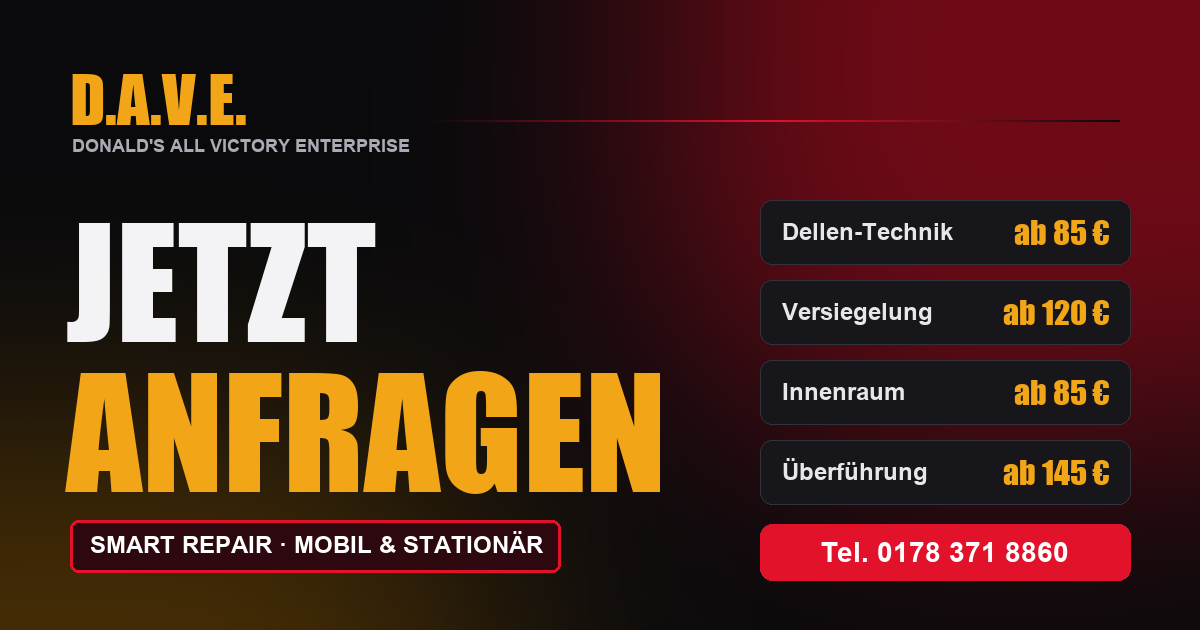
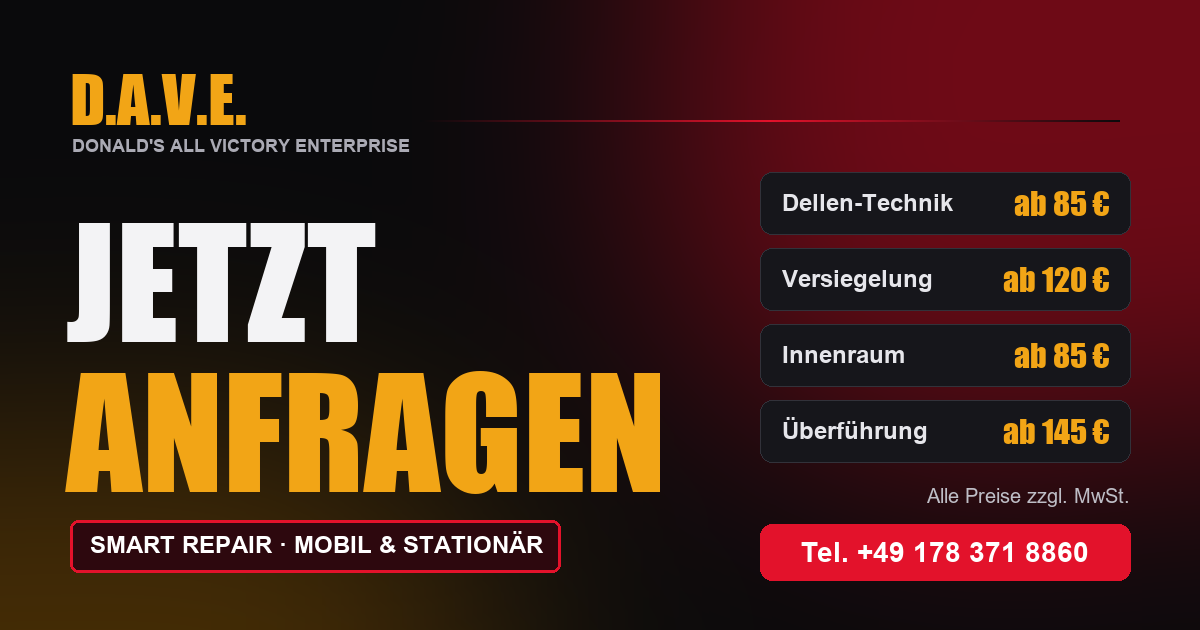
Preise zzgl. MwSt., +49, Impressum- und Datenschutz-Angaben
- Alle Preise mit Zusatz zzgl. MwSt. (Karten, Hero, FAQ, Vorschaubild, Google-Daten)
- Telefonnummer ueberall im internationalen Format +49 178 371 8860
- Adresse Ringstrasse 2a, 74937 Spechbach in Impressum und Datenschutz
- Voller Name Donald Craig Sewell; Inhaber als Verantwortlicher fuer Datenschutz
- Impressum auf USt-IdNr.-Variante gesetzt (Nummer folgt)
- Lichtstreifen im Hero verursachen kein seitliches Scrollen mehr

Changed region(s): [[0.6167, 0.2714, 0.9558, 0.8143], [0.6475, 0.8444, 0.925, 0.9048]]

diff --git a/index.html b/index.html
@@ -4,7 +4,7 @@
 <meta charset="utf-8">
 <meta name="viewport" content="width=device-width, initial-scale=1, viewport-fit=cover">
 <title>D.A.V.E. – Smart Repair, Dellenentfernung &amp; Fahrzeugaufbereitung | Mobil &amp; Stationär</title>
-<meta name="description" content="D.A.V.E. – Smart Repair mobil &amp; stationär: Dellenentfernung (PDR) ab 85 €, Lack- &amp; Glasversiegelung ab 120 €, Innenraumaufbereitung ab 85 €, Fahrzeugüberführung ab 145 €. Wir kommen zu dir! ☎ 0178 371 8860">
+<meta name="description" content="D.A.V.E. – Smart Repair mobil &amp; stationär: Dellenentfernung (PDR) ab 85 €, Lack- &amp; Glasversiegelung ab 120 €, Innenraumaufbereitung ab 85 €, Fahrzeugüberführung ab 145 € (alle Preise zzgl. MwSt.). Wir kommen zu dir! ☎ +49 178 371 8860">
 <meta name="theme-color" content="#0a0a0c">
 <link rel="canonical" href="https://ali1810.github.io/dave/">
 <link rel="icon" href="favicon.svg" type="image/svg+xml">
@@ -32,12 +32,12 @@
   "telephone": "+49 178 3718860",
   "email": "donald.sewell@gmx.de",
   "priceRange": "ab 85 €",
-  "founder": { "@type": "Person", "name": "Donald Sewell" },
+  "founder": { "@type": "Person", "name": "Donald Craig Sewell" },
   "makesOffer": [
-    { "@type": "Offer", "itemOffered": { "@type": "Service", "name": "PDR / Dellen-Technik" }, "priceSpecification": { "@type": "PriceSpecification", "minPrice": 85, "priceCurrency": "EUR" } },
-    { "@type": "Offer", "itemOffered": { "@type": "Service", "name": "Fahrzeugtransport & Überführung" }, "priceSpecification": { "@type": "PriceSpecification", "minPrice": 145, "priceCurrency": "EUR" } },
-    { "@type": "Offer", "itemOffered": { "@type": "Service", "name": "Lack- & Glasversiegelung" }, "priceSpecification": { "@type": "PriceSpecification", "minPrice": 120, "priceCurrency": "EUR" } },
-    { "@type": "Offer", "itemOffered": { "@type": "Service", "name": "Innenraumpflege & Aufbereitung" }, "priceSpecification": { "@type": "PriceSpecification", "minPrice": 85, "priceCurrency": "EUR" } }
+    { "@type": "Offer", "itemOffered": { "@type": "Service", "name": "PDR / Dellen-Technik" }, "priceSpecification": { "@type": "PriceSpecification", "minPrice": 85, "priceCurrency": "EUR", "valueAddedTaxIncluded": false } },
+    { "@type": "Offer", "itemOffered": { "@type": "Service", "name": "Fahrzeugtransport & Überführung" }, "priceSpecification": { "@type": "PriceSpecification", "minPrice": 145, "priceCurrency": "EUR", "valueAddedTaxIncluded": false } },
+    { "@type": "Offer", "itemOffered": { "@type": "Service", "name": "Lack- & Glasversiegelung" }, "priceSpecification": { "@type": "PriceSpecification", "minPrice": 120, "priceCurrency": "EUR", "valueAddedTaxIncluded": false } },
+    { "@type": "Offer", "itemOffered": { "@type": "Service", "name": "Innenraumpflege & Aufbereitung" }, "priceSpecification": { "@type": "PriceSpecification", "minPrice": 85, "priceCurrency": "EUR", "valueAddedTaxIncluded": false } }
   ]
 }
 </script>
@@ -114,7 +114,9 @@
   .hero::after{content:"";position:absolute;inset:0;z-index:-2;opacity:.25;
     background-image:linear-gradient(#ffffff08 1px,transparent 1px),linear-gradient(90deg,#ffffff08 1px,transparent 1px);background-size:60px 60px;
     -webkit-mask-image:radial-gradient(ellipse at 60% 50%,#000 20%,transparent 70%);mask-image:radial-gradient(ellipse at 60% 50%,#000 20%,transparent 70%)}
-  .streaks{position:absolute;inset:0;z-index:-1;pointer-events:none}
+  .streaks{position:absolute;inset:0;z-index:-1;pointer-events:none;overflow:hidden}
+  html,body{overflow-x:hidden}
+  @supports (overflow:clip){html,body{overflow-x:clip}}
   .streaks span{position:absolute;left:0;height:2px;border-radius:2px;background:linear-gradient(90deg,transparent,var(--red2),transparent);animation:streak 4s linear infinite;will-change:transform}
   @keyframes streak{from{transform:translateX(-60vw)}to{transform:translateX(120vw)}}
   .hero-grid{display:grid;grid-template-columns:1.1fr .9fr;gap:40px;align-items:center;width:100%}
@@ -175,6 +177,8 @@
   .price{display:inline-flex;align-items:baseline;gap:8px;background:linear-gradient(180deg,#b10e22,#7e0817);border:1px solid var(--red2);padding:8px 16px;border-radius:9px;font-weight:800;text-transform:uppercase;font-style:italic}
   .price small{font-size:12px;letter-spacing:.06em}
   .price b{font-size:24px}
+  .price .vat{font-size:11px;font-style:normal;text-transform:none;letter-spacing:.02em;font-weight:600;opacity:.85}
+  .vat-note{text-align:center;color:var(--muted);font-size:14px;margin-top:28px}
   .ask{font-weight:700;font-size:14px;color:var(--gold);display:inline-flex;align-items:center;gap:6px;background:none;border:0;cursor:pointer;font-family:inherit;padding:6px 0}
   .ask svg{transition:transform .2s}.ask:hover svg{transform:translateX(4px)}
   @media (max-width:960px){.services{grid-template-columns:1fr}}
@@ -314,7 +318,7 @@
     </nav>
     <a href="tel:+491783718860" class="btn btn-red nav-cta">
       <svg class="i" viewBox="0 0 24 24" fill="none" stroke="currentColor" stroke-width="2"><path d="M22 16.9v3a2 2 0 0 1-2.2 2 19.8 19.8 0 0 1-8.6-3.1 19.5 19.5 0 0 1-6-6A19.8 19.8 0 0 1 2.1 4.2 2 2 0 0 1 4.1 2h3a2 2 0 0 1 2 1.7c.1.9.4 1.8.7 2.7a2 2 0 0 1-.5 2.1L8 9.8a16 16 0 0 0 6 6l1.3-1.3a2 2 0 0 1 2.1-.4c.9.3 1.8.6 2.7.7a2 2 0 0 1 1.7 2z"/></svg>
-      0178 371 8860
+      +49 178 371 8860
     </a>
     <button class="burger" id="burger" aria-label="Menü öffnen" aria-expanded="false" aria-controls="menu"><span></span></button>
   </div>
@@ -377,7 +381,7 @@
             <circle cx="400" cy="202" r="6" fill="#f2a516"/>
           </g>
         </svg>
-        <div class="chip c1"><b>ab 85 €</b>Dellen-Technik</div>
+        <div class="chip c1"><b>ab 85 €</b>Dellen-Technik · zzgl. MwSt.</div>
         <div class="chip c2"><b>📍 Wir kommen zu dir</b>Mobil oder stationär</div>
       </div>
     </div>
@@ -411,7 +415,7 @@
             <p class="d">Ausbeulen ohne Lackieren – der Originallack bleibt erhalten. Ideal bei Parkdellen und Hagelschäden.</p>
             <ul><li>Kleine Dellen</li><li>Mittlere Dellen</li><li>Große Dellen</li></ul>
             <div class="foot">
-              <span class="price"><small>Preise ab</small><b>85 €</b></span>
+              <span class="price"><small>Preise ab</small><b>85 €</b><em class="vat">zzgl. MwSt.</em></span>
               <button class="ask" data-svc="PDR / Dellen-Technik">Anfragen <svg class="i" viewBox="0 0 24 24" fill="none" stroke="currentColor" stroke-width="2.5"><path d="M5 12h14M13 6l6 6-6 6"/></svg></button>
             </div>
           </div>
@@ -425,7 +429,7 @@
             <p class="d">Sicher von A nach B – zur Werkstatt, zum TÜV, zum Käufer oder quer durch Deutschland.</p>
             <ul><li>Kurzstrecke</li><li>Mittlere Strecke</li><li>Langstrecke</li></ul>
             <div class="foot">
-              <span class="price"><small>Preise ab</small><b>145 €</b></span>
+              <span class="price"><small>Preise ab</small><b>145 €</b><em class="vat">zzgl. MwSt.</em></span>
               <button class="ask" data-svc="Fahrzeugtransport &amp; Überführung">Anfragen <svg class="i" viewBox="0 0 24 24" fill="none" stroke="currentColor" stroke-width="2.5"><path d="M5 12h14M13 6l6 6-6 6"/></svg></button>
             </div>
           </div>
@@ -439,7 +443,7 @@
             <p class="d">Tiefenglanz und langanhaltender Schutz vor Schmutz, Salz und UV – vom Basis-Paket bis Keramik.</p>
             <ul><li>Basis</li><li>Premium</li><li>Keramik</li><li>Glas</li></ul>
             <div class="foot">
-              <span class="price"><small>Preise ab</small><b>120 €</b></span>
+              <span class="price"><small>Preise ab</small><b>120 €</b><em class="vat">zzgl. MwSt.</em></span>
               <button class="ask" data-svc="Lack- &amp; Glasversiegelung">Anfragen <svg class="i" viewBox="0 0 24 24" fill="none" stroke="currentColor" stroke-width="2.5"><path d="M5 12h14M13 6l6 6-6 6"/></svg></button>
             </div>
           </div>
@@ -453,12 +457,13 @@
             <p class="d">Polster, Teppiche, Cockpit und Leder – gründlich gereinigt und gepflegt, als wär's ein Neuwagen.</p>
             <ul><li>Basis</li><li>Intensiv</li><li>Komplettaufbereitung</li><li>Lederpflege</li></ul>
             <div class="foot">
-              <span class="price"><small>Preise ab</small><b>85 €</b></span>
+              <span class="price"><small>Preise ab</small><b>85 €</b><em class="vat">zzgl. MwSt.</em></span>
               <button class="ask" data-svc="Innenraumpflege &amp; Aufbereitung">Anfragen <svg class="i" viewBox="0 0 24 24" fill="none" stroke="currentColor" stroke-width="2.5"><path d="M5 12h14M13 6l6 6-6 6"/></svg></button>
             </div>
           </div>
         </article>
       </div>
+      <p class="vat-note rv">Alle Preise verstehen sich zzgl. der gesetzlichen MwSt. (19 %). Der genaue Preis richtet sich nach Aufwand und wird vorab verbindlich vereinbart.</p>
     </div>
   </section>
 
@@ -552,7 +557,7 @@
         <p class="rv d2">Ob Delle im Kotflügel, Versiegelung für den Winter oder Überführung quer durchs Land – du bekommst alles aus einer Hand.</p>
         <ul class="checks rv d3">
           <li><svg viewBox="0 0 24 24" fill="none" stroke="currentColor" stroke-width="3"><path d="M20 6 9 17l-5-5"/></svg>Mobil &amp; stationär – du entscheidest</li>
-          <li><svg viewBox="0 0 24 24" fill="none" stroke="currentColor" stroke-width="3"><path d="M20 6 9 17l-5-5"/></svg>Transparente Preise ab 85 €</li>
+          <li><svg viewBox="0 0 24 24" fill="none" stroke="currentColor" stroke-width="3"><path d="M20 6 9 17l-5-5"/></svg>Transparente Preise ab 85 € zzgl. MwSt.</li>
           <li><svg viewBox="0 0 24 24" fill="none" stroke="currentColor" stroke-width="3"><path d="M20 6 9 17l-5-5"/></svg>Hochwertige Produkte &amp; saubere Arbeit</li>
           <li><svg viewBox="0 0 24 24" fill="none" stroke="currentColor" stroke-width="3"><path d="M20 6 9 17l-5-5"/></svg>Flexible Termine – auch kurzfristig</li>
         </ul>
@@ -569,7 +574,7 @@
       </div>
       <div class="faq rv d1">
         <details><summary>Kommt ihr wirklich zu mir nach Hause?</summary><p>Ja! Viele Arbeiten wie Dellen-Technik, Innenraumpflege und Versiegelung erledigen wir mobil – bei dir zu Hause, im Büro oder auf dem Firmenparkplatz. Für manche Arbeiten ist ein stationärer Termin sinnvoller; das besprechen wir vorab.</p></details>
-        <details><summary>Was kostet die Reparatur meiner Delle?</summary><p>Die Preise starten ab 85 €. Der genaue Preis hängt von Größe, Tiefe und Position der Delle ab. Schick uns einfach ein Foto per WhatsApp oder E-Mail – dann bekommst du schnell ein Angebot.</p></details>
+        <details><summary>Was kostet die Reparatur meiner Delle?</summary><p>Die Preise starten ab 85 € zzgl. MwSt. Der genaue Preis hängt von Größe, Tiefe und Position der Delle ab. Schick uns einfach ein Foto per WhatsApp oder E-Mail – dann bekommst du schnell ein Angebot.</p></details>
         <details><summary>Muss nach der Dellenentfernung lackiert werden?</summary><p>Nein. Bei der PDR-Methode wird das Blech ohne Spachtel und ohne Lackieren zurückgeformt. Der Originallack bleibt erhalten – solange er nicht beschädigt ist.</p></details>
         <details><summary>Wie lange dauert eine Aufbereitung?</summary><p>Je nach Paket zwischen wenigen Stunden (Basis) und einem ganzen Tag (Komplettaufbereitung oder Keramikversiegelung). Die genaue Dauer nennen wir dir bei der Terminvereinbarung.</p></details>
         <details><summary>Überführt ihr auch über weite Strecken?</summary><p>Ja – von der Kurzstrecke in der Stadt bis zur Langstrecke durch ganz Deutschland. Sag uns Start, Ziel und Wunschtermin, und wir machen dir ein Angebot.</p></details>
@@ -589,7 +594,7 @@
         <div class="cbox rv">
           <a class="cline" href="tel:+491783718860">
             <span class="ci"><svg class="i" viewBox="0 0 24 24" fill="none" stroke="currentColor" stroke-width="2"><path d="M22 16.9v3a2 2 0 0 1-2.2 2 19.8 19.8 0 0 1-8.6-3.1 19.5 19.5 0 0 1-6-6A19.8 19.8 0 0 1 2.1 4.2 2 2 0 0 1 4.1 2h3a2 2 0 0 1 2 1.7c.1.9.4 1.8.7 2.7a2 2 0 0 1-.5 2.1L8 9.8a16 16 0 0 0 6 6l1.3-1.3a2 2 0 0 1 2.1-.4c.9.3 1.8.6 2.7.7a2 2 0 0 1 1.7 2z"/></svg></span>
-            <span><small>Telefon</small><strong>0178 371 8860</strong></span>
+            <span><small>Telefon</small><strong>+49 178 371 8860</strong></span>
           </a>
           <a class="cline" href="https://wa.me/491783718860" target="_blank" rel="noopener">
             <span class="ci" style="border-color:#1faa53;color:#25c463"><svg class="i" viewBox="0 0 24 24" fill="none" stroke="currentColor" stroke-width="2"><path d="M21 11.5a8.4 8.4 0 0 1-12.4 7.4L3 21l2.1-5.4A8.4 8.4 0 1 1 21 11.5z"/></svg></span>
@@ -663,7 +668,7 @@
       <div>
         <h4>Kontakt</h4>
         <ul>
-          <li><a href="tel:+491783718860">0178 371 8860</a></li>
+          <li><a href="tel:+491783718860">+49 178 371 8860</a></li>
           <li><a href="mailto:donald.sewell@gmx.de">donald.sewell@gmx.de</a></li>
           <li><a href="https://wa.me/491783718860" target="_blank" rel="noopener">WhatsApp</a></li>
         </ul>

diff --git a/impressum.html b/impressum.html
@@ -45,33 +45,30 @@ footer b{color:var(--gold);letter-spacing:.12em}
 
   <h2>Angaben gemäß § 5 DDG</h2>
   <p>
-    Donald Sewell<br>
+    Donald Craig Sewell<br>
     D.A.V.E. – Donald's All Victory Enterprise<br>
-    <mark>[Straße und Hausnummer]</mark><br>
-    <mark>[PLZ Ort]</mark><br>
+    Ringstraße 2a<br>
+    74937 Spechbach<br>
     Deutschland
   </p>
 
   <h2>Kontakt</h2>
   <p>
-    Telefon: <a href="tel:+491783718860">0178 371 8860</a><br>
+    Telefon: <a href="tel:+491783718860">+49 178 371 8860</a><br>
     E-Mail: <a href="mailto:donald.sewell@gmx.de">donald.sewell@gmx.de</a>
   </p>
 
   <h2>Umsatzsteuer</h2>
-  <p><mark>[Eine der beiden Varianten wählen, die andere löschen:]</mark></p>
   <p>Umsatzsteuer-Identifikationsnummer gemäß § 27a Umsatzsteuergesetz: <mark>[DE…]</mark></p>
-  <p><em>oder</em></p>
-  <p>Gemäß § 19 UStG wird keine Umsatzsteuer berechnet (Kleinunternehmerregelung).</p>
 
   <h2>Verantwortlich für den Inhalt</h2>
-  <p>Donald Sewell, Anschrift wie oben.</p>
+  <p>Donald Craig Sewell (Einzelunternehmer), Anschrift wie oben.</p>
 
   <h2>Verbraucherstreitbeilegung</h2>
   <p>Wir sind nicht bereit und nicht verpflichtet, an Streitbeilegungsverfahren vor einer Verbraucherschlichtungsstelle teilzunehmen.</p>
 
   <h2>Haftung für Inhalte</h2>
-  <p>Die Inhalte dieser Seite wurden mit größter Sorgfalt erstellt. Für die Richtigkeit, Vollständigkeit und Aktualität der Inhalte können wir jedoch keine Gewähr übernehmen. Alle Preisangaben sind „ab“-Preise; der endgültige Preis richtet sich nach Aufwand und wird vor Auftragserteilung vereinbart.</p>
+  <p>Die Inhalte dieser Seite wurden mit größter Sorgfalt erstellt. Für die Richtigkeit, Vollständigkeit und Aktualität der Inhalte können wir jedoch keine Gewähr übernehmen. Alle Preisangaben sind „ab“-Preise zzgl. der gesetzlichen MwSt.; der endgültige Preis richtet sich nach Aufwand und wird vor Auftragserteilung vereinbart.</p>
 
   <h2>Haftung für Links</h2>
   <p>Diese Website enthält Links zu externen Websites Dritter (z. B. WhatsApp), auf deren Inhalte wir keinen Einfluss haben. Für die Inhalte der verlinkten Seiten ist stets der jeweilige Anbieter oder Betreiber verantwortlich.</p>

diff --git a/datenschutz.html b/datenschutz.html
@@ -46,11 +46,12 @@ footer b{color:var(--gold);letter-spacing:.12em}
   <h2>1. Verantwortlicher</h2>
   <p>
     Verantwortlich für die Datenverarbeitung auf dieser Website im Sinne der Datenschutz-Grundverordnung (DSGVO) ist:<br><br>
-    Donald Sewell – D.A.V.E. – Donald's All Victory Enterprise<br>
-    <mark>[Straße und Hausnummer]</mark>, <mark>[PLZ Ort]</mark><br>
-    Telefon: <a href="tel:+491783718860">0178 371 8860</a><br>
+    Donald Craig Sewell – D.A.V.E. – Donald's All Victory Enterprise<br>
+    Ringstraße 2a, 74937 Spechbach<br>
+    Telefon: <a href="tel:+491783718860">+49 178 371 8860</a><br>
     E-Mail: <a href="mailto:donald.sewell@gmx.de">donald.sewell@gmx.de</a>
   </p>
+  <p>D.A.V.E. ist ein Einzelunternehmen. Donald Craig Sewell ist als Inhaber zugleich persönlich für den Datenschutz verantwortlich und Ihr direkter Ansprechpartner für alle Fragen zum Datenschutz. Ein Datenschutzbeauftragter ist gesetzlich nicht vorgeschrieben und daher nicht benannt.</p>
 
   <h2>2. Allgemeines</h2>
   <p>Wir verarbeiten personenbezogene Daten nur, soweit dies zur Bereitstellung dieser Website, zur Beantwortung von Anfragen und zur Durchführung von Aufträgen erforderlich ist. Diese Website verwendet <strong>keine Cookies</strong>, keine Analyse- oder Tracking-Tools, keine Social-Media-Plugins und bindet keine Inhalte von Drittanbietern ein. Alle Schriftarten werden direkt von unserem eigenen Server geladen.</p>

diff --git a/404.html b/404.html
@@ -23,7 +23,7 @@
   <div>
     <h1>404</h1>
     <p>Diese Seite gibt es leider nicht – aber deine Delle kriegen wir trotzdem weg.</p>
-    <div class="b"><a class="r" href="/">Zur Startseite</a><a class="g" href="tel:+491783718860">0178 371 8860</a></div>
+    <div class="b"><a class="r" href="/">Zur Startseite</a><a class="g" href="tel:+491783718860">+49 178 371 8860</a></div>
   </div>
 </body>
 </html>
